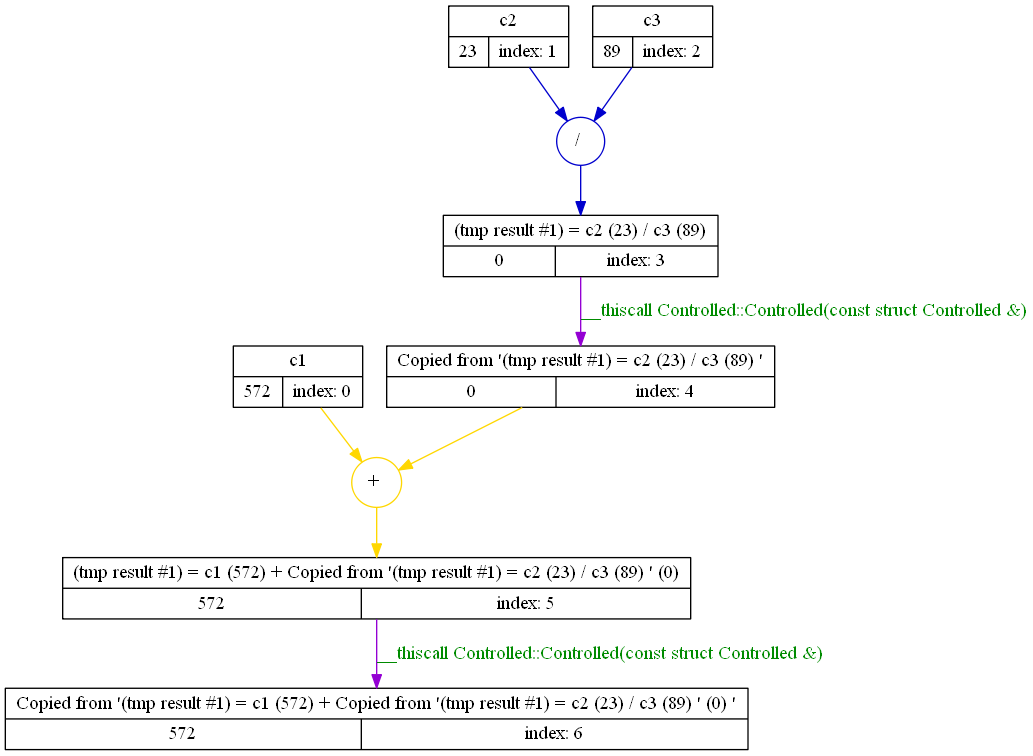
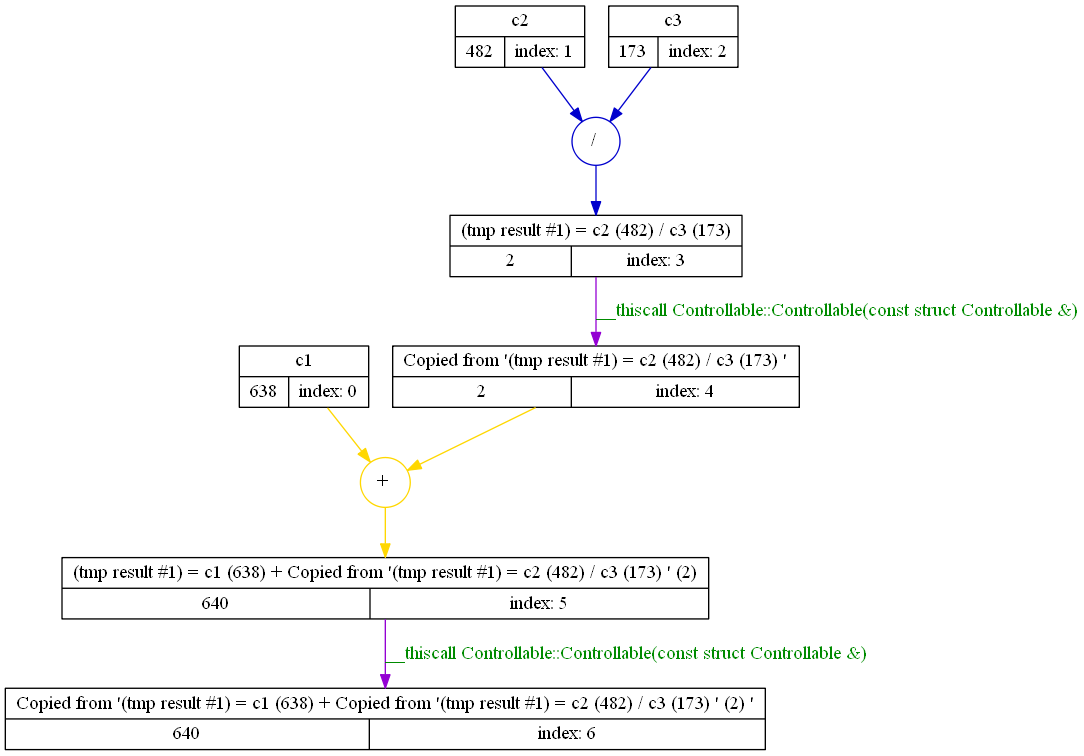
Just renamed class

diff --git a/StackTrace/Source.cpp b/StackTrace/Source.cpp
@@ -17,11 +17,11 @@
 
 #endif
 
-#define CREATE_CONTROLLED(name__, value__) Controlled name__ (value__, #name__);
+#define CREATE_CONTROLLABLE(name__, value__) Controllable name__ (value__, #name__);
 
 #define DUMP_OPERATION(c, color)                                                                                       \
                                                                                                                        \
-	Controlled result (a.value_ c b.value_, "(tmp result #" + std::to_string (operation_counter) + ") =    "           \
+	Controllable result (a.value_ c b.value_, "(tmp result #" + std::to_string (operation_counter) + ") =    "           \
 		                                           + a.label_ + " (" + std::to_string (a.value_) + ") "#c" "           \
 		                                           + b.label_ + " (" + std::to_string (b.value_) + ")      ");         \
                                                                                                                        \
@@ -34,7 +34,7 @@
 
 Graph * _Graph = nullptr;
 
-struct Controlled
+struct Controllable
 
 {
 
@@ -46,11 +46,11 @@ struct Controlled
 
 	std::string label_;
 
-	Controlled (int value = 0, std::string label = "Unnamed");
+	Controllable (int value = 0, std::string label = "Unnamed");
 
-	Controlled (const Controlled & that);
+	Controllable (const Controllable & that);
 
-	Controlled & operator= (const Controlled & that);
+	Controllable & operator= (const Controllable & that);
 
 	void updateLabel (const std::string & label);
 
@@ -58,18 +58,18 @@ struct Controlled
 
 };
 
-size_t Controlled::Counter = 0;
+size_t Controllable::Counter = 0;
 
-Controlled operator+ (const Controlled & a, const Controlled & b);
-Controlled operator- (const Controlled & a, const Controlled & b);
-Controlled operator* (const Controlled & a, const Controlled & b);
-Controlled operator/ (const Controlled & a, const Controlled & b);
+Controllable operator+ (const Controllable & a, const Controllable & b);
+Controllable operator- (const Controllable & a, const Controllable & b);
+Controllable operator* (const Controllable & a, const Controllable & b);
+Controllable operator/ (const Controllable & a, const Controllable & b);
 
 std::string StrReplaceInstances (std::string str, std::string from, std::string to);
 
 std::string StrFilterFuncName (std::string name);
 
-void ControlledTest (int n1, int n2, int n3);
+void ControllableTest (int n1, int n2, int n3);
 
 int main ()
 
@@ -79,9 +79,9 @@ int main ()
 
 	_Graph = &graph;
 
-	CREATE_CONTROLLED (c1, eu::rnd (0, 1000));
-	CREATE_CONTROLLED (c2, eu::rnd (0, 1000));
-	CREATE_CONTROLLED (c3, eu::rnd (0, 1000));
+	CREATE_CONTROLLABLE (c1, eu::rnd (0, 1000));
+	CREATE_CONTROLLABLE (c2, eu::rnd (0, 1000));
+	CREATE_CONTROLLABLE (c3, eu::rnd (0, 1000));
 
 	c1 + c2 / c3;
 
@@ -89,7 +89,7 @@ int main ()
 
 }
 
-Controlled::Controlled (int value, std::string label) :
+Controllable::Controllable (int value, std::string label) :
 
 	index_ (Counter),
 
@@ -102,13 +102,13 @@ Controlled::Controlled (int value, std::string label) :
 	_Graph -> Add ("\"%zu\" [shape = record, label = \" { %s | { %d | index: %zu} } \"]\n", 
 		            index_, label_.c_str (), value_, index_);
 
-	TRACE ("Created controlled '%s' with value %d, index: %zu", label_.c_str (), value, index_);
+	TRACE ("Created Controllable '%s' with value %d, index: %zu", label_.c_str (), value, index_);
 
 	Counter ++;
 
 }
 
-Controlled::Controlled (const Controlled & that) :
+Controllable::Controllable (const Controllable & that) :
 
 	index_ (Counter),
 
@@ -123,13 +123,13 @@ Controlled::Controlled (const Controlled & that) :
 
 	_Graph -> Add ("\"%zu\" -> \"%zu\" [label = \"%s\", color = darkviolet];\n", that.index_, index_, __TX_FUNCTION__);
 
-	TRACE ("Created controlled '%s' with value %d, index: %zu", label_.c_str (), value_, index_);
+	TRACE ("Created Controllable '%s' with value %d, index: %zu", label_.c_str (), value_, index_);
 
 	Counter ++;
 
 }
 
-Controlled & Controlled::operator= (const Controlled & that)
+Controllable & Controllable::operator= (const Controllable & that)
 
 {
 
@@ -147,7 +147,7 @@ Controlled & Controlled::operator= (const Controlled & that)
 
 }
 
-Controlled operator+ (const Controlled & a, const Controlled & b)
+Controllable operator+ (const Controllable & a, const Controllable & b)
 
 {
 
@@ -162,7 +162,7 @@ Controlled operator+ (const Controlled & a, const Controlled & b)
 
 }
 
-Controlled operator- (const Controlled & a, const Controlled & b)
+Controllable operator- (const Controllable & a, const Controllable & b)
 
 {
 
@@ -177,7 +177,7 @@ Controlled operator- (const Controlled & a, const Controlled & b)
 
 }
 
-Controlled operator* (const Controlled & a, const Controlled & b)
+Controllable operator* (const Controllable & a, const Controllable & b)
 
 {
 
@@ -192,7 +192,7 @@ Controlled operator* (const Controlled & a, const Controlled & b)
 
 }
 
-Controlled operator/ (const Controlled & a, const Controlled & b)
+Controllable operator/ (const Controllable & a, const Controllable & b)
 
 {
 	static size_t operation_counter = 0;
@@ -206,7 +206,7 @@ Controlled operator/ (const Controlled & a, const Controlled & b)
 
 }
 
-void Controlled::updateLabel (const std::string & label)
+void Controllable::updateLabel (const std::string & label)
 
 {
 
@@ -216,13 +216,13 @@ void Controlled::updateLabel (const std::string & label)
 
 }
 
-void Controlled::print ()
+void Controllable::print ()
 
 {
 
 	$sc;
 
-	printf ("Controlled '%s' = %d\n", label_.c_str (), value_);
+	printf ("Controllable '%s' = %d\n", label_.c_str (), value_);
 
 }
 
@@ -250,23 +250,23 @@ std::string StrFilterFuncName (std::string name)
 
 }
 
-void ControlledTest (int n1, int n2, int n3)
+void ControllableTest (int n1, int n2, int n3)
 
 {
 
-	printf ("Testing Controlled with %d, %d, %d...\n", n1, n2, n3);
+	printf ("Testing Controllable with %d, %d, %d...\n", n1, n2, n3);
 
-	CREATE_CONTROLLED (c1,     n1);
-	CREATE_CONTROLLED (c2,     n2);
-	CREATE_CONTROLLED (c3,     n3);
+	CREATE_CONTROLLABLE (c1,     n1);
+	CREATE_CONTROLLABLE (c2,     n2);
+	CREATE_CONTROLLABLE (c3,     n3);
 
-	CREATE_CONTROLLED (result,  0);
+	CREATE_CONTROLLABLE (result,  0);
 
 	    result = c1 * (c2 + c1) - c3 / c2;
 
 	int expect = n1 * (n2 + n1) - n3 / n2;
 
-	printf ("Controlled test (%d * (%d + %d) - %d / %d): ", n1, n2, n1, n3, n2);
+	printf ("Controllable test (%d * (%d + %d) - %d / %d): ", n1, n2, n1, n3, n2);
 
 	if (result.value_ == expect) 
 		
